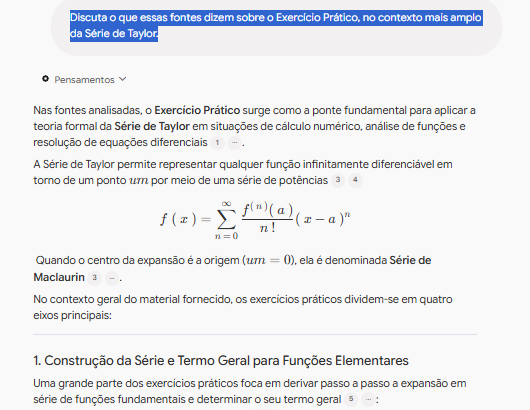
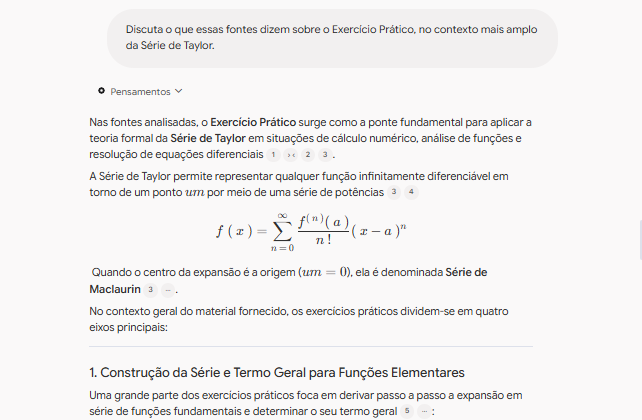
Corringindo Falhas

diff --git a/README.md b/README.md
@@ -82,7 +82,7 @@ Fontes utlizadas:
 
 # Promp Utilizado paracriação do mapa mental
 Prompt: "Crie um mapa mental que baseando em todas as fontes apenas inclua os que inclua os conteúdos presentes nos slides em pdf da FEI."
-      <img src="Mapa mental/NotebookLM Mind Map.png" alt="Texto 1" width="600"/>
+      <img src="Conteudos/Mapa mental/NotebookLM Mind Map.png" alt="Texto 1" width="600"/>
 
 # Prompt Utilizado para a criação dos Slides de apresentação:
 Formato: Slides apresentador - Lides limpos ocm elementos visuais e os principais pontos de discussão para ajudar enquanto voce fala.
